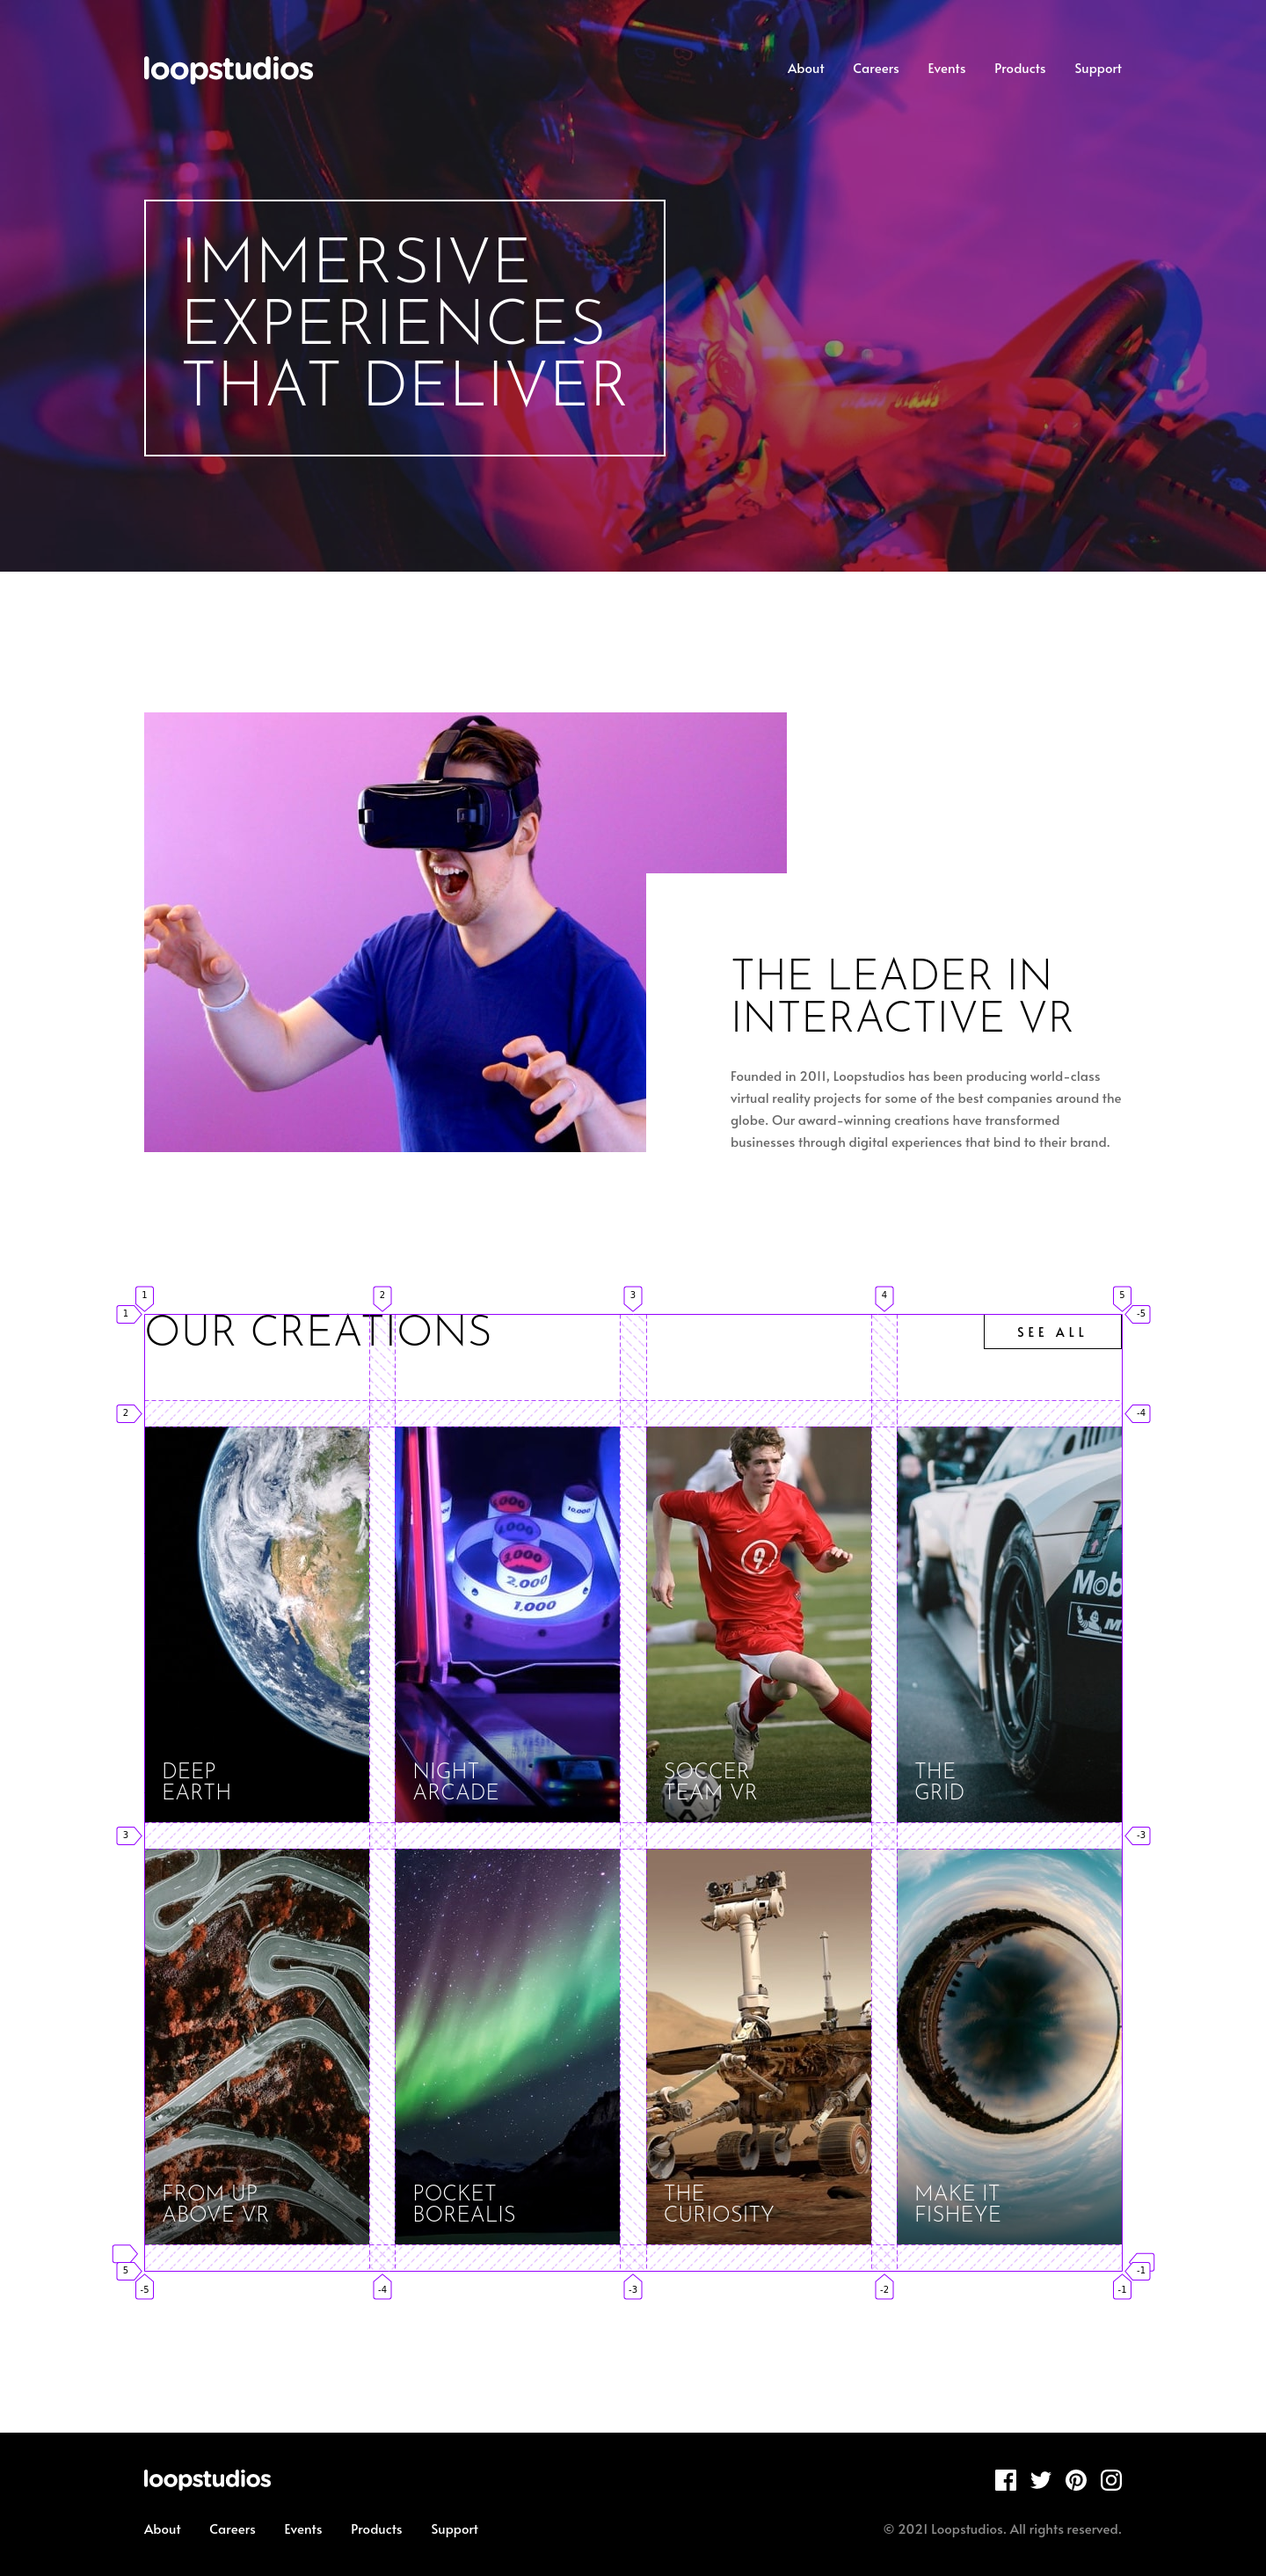
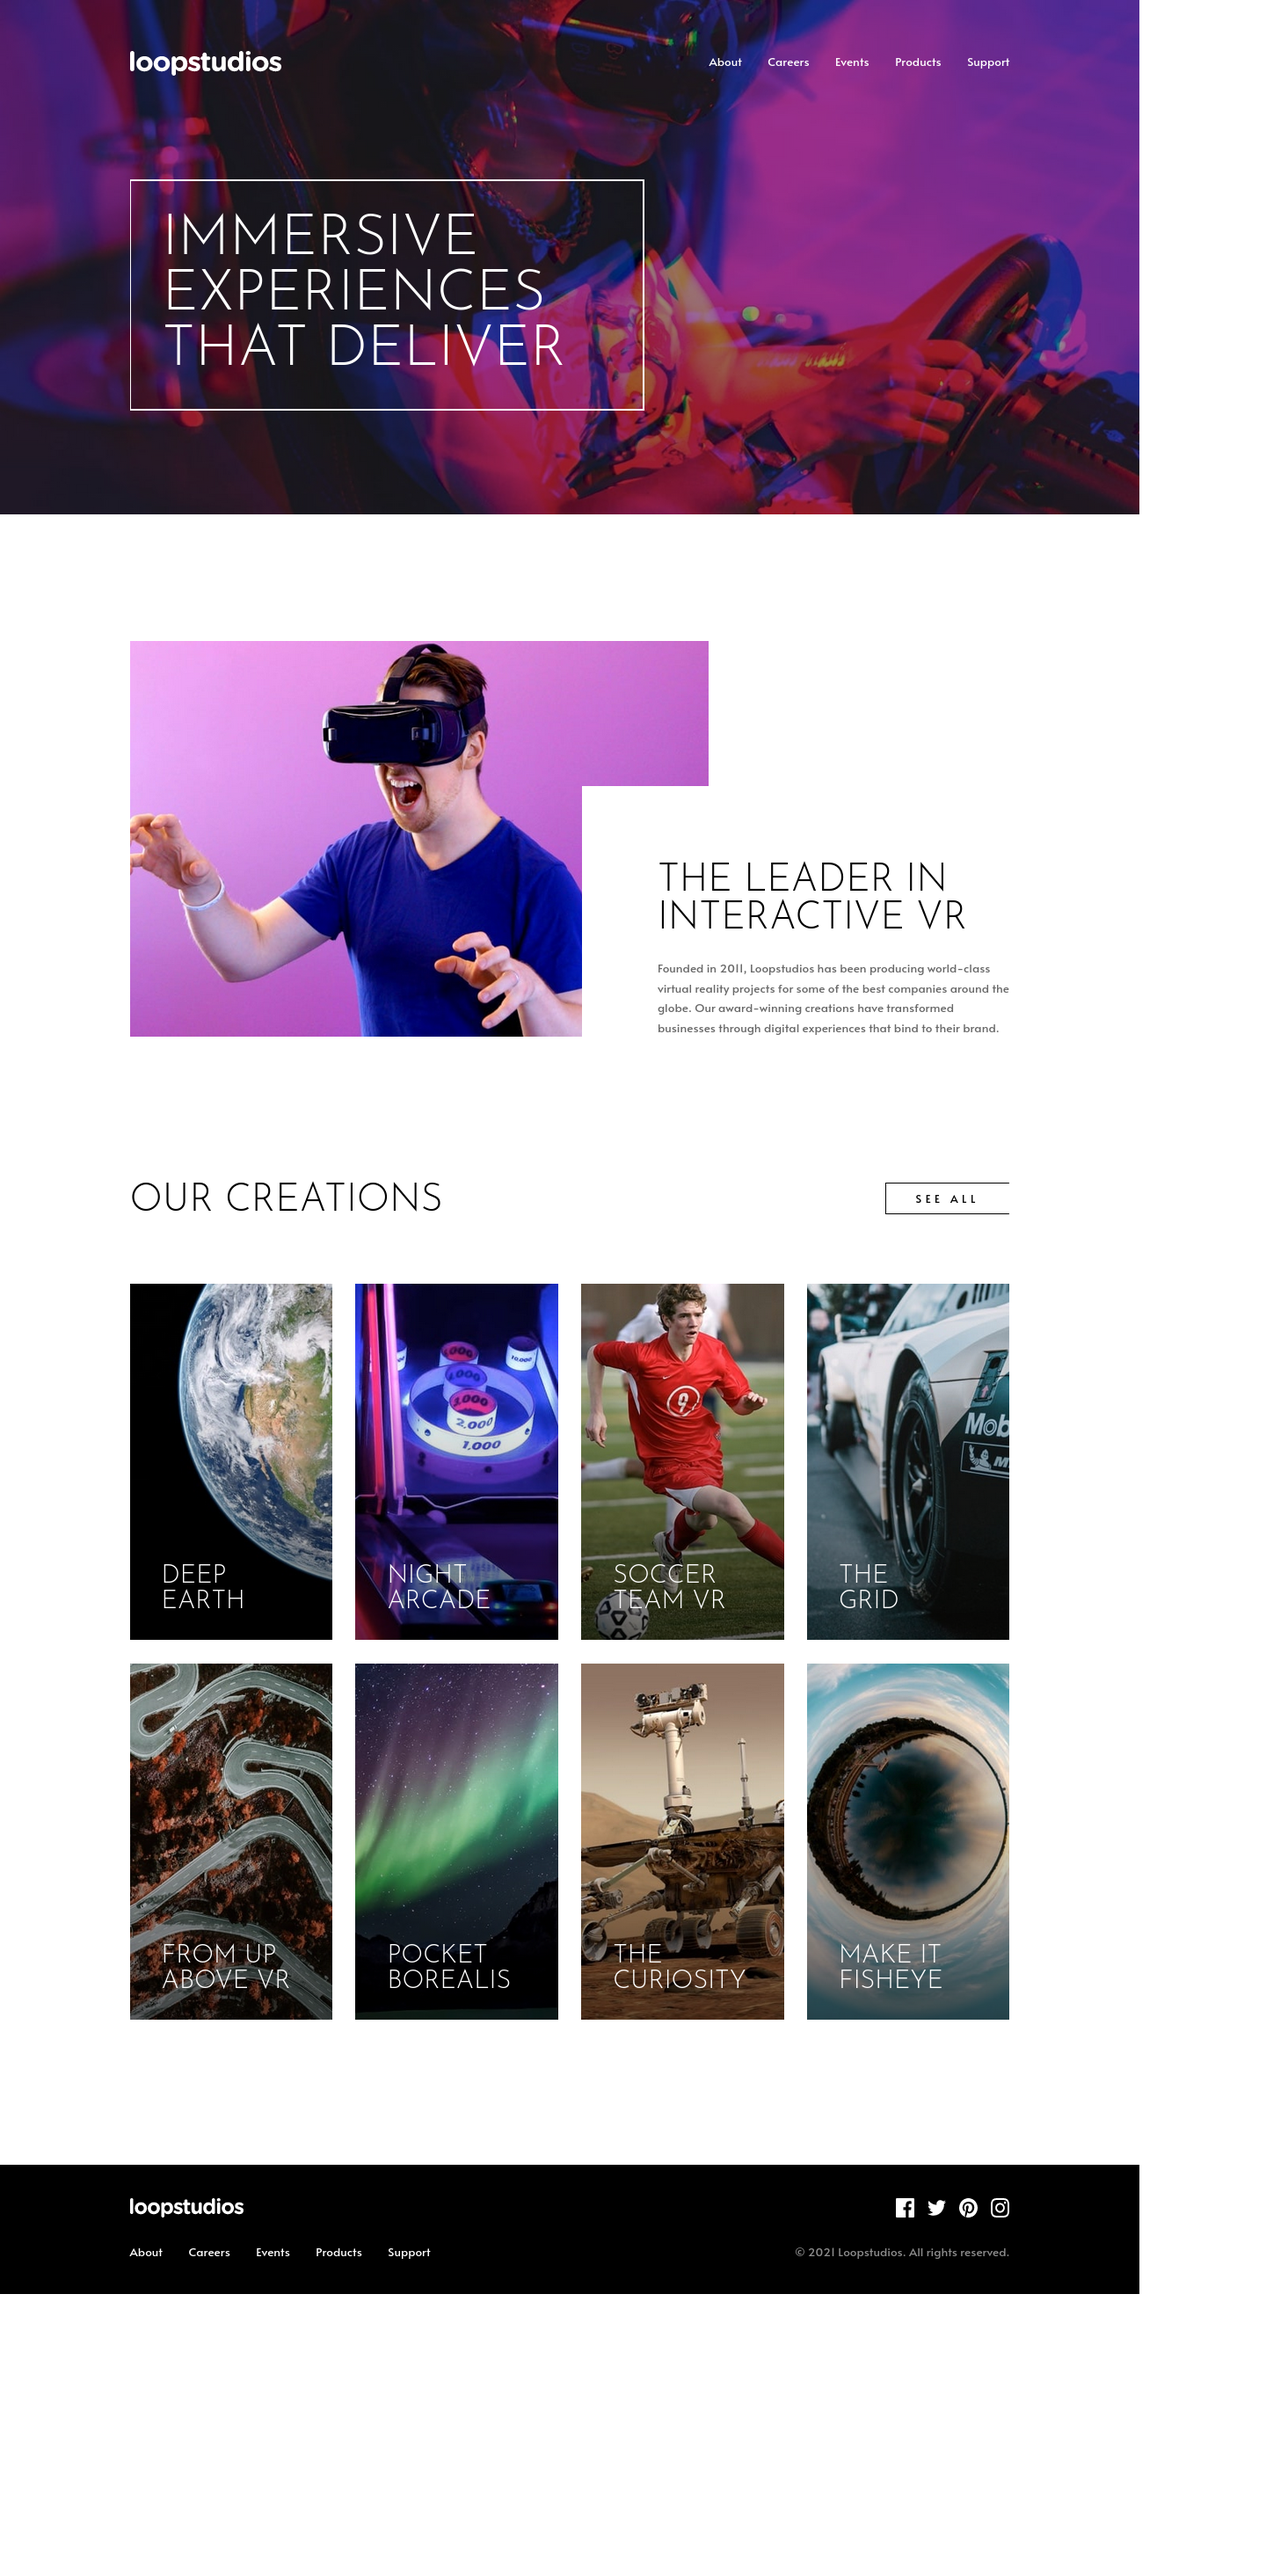
more shading of tiles

diff --git a/style.css b/style.css
@@ -171,7 +171,8 @@ main {
     diverges in desktop view, while on mobile is the same
 */
 .spacing-1,
-.spacing-2 {
+.spacing-2,
+.spacing-3 {
   height: 96px;
 }
 
@@ -248,9 +249,8 @@ h2 {
   background: linear-gradient(
     to right,
     rgba(0, 0, 0, 0.6),
-    rgba(0, 0, 0, 0),
-    240px,
-    rgba(0, 0, 0, 0)
+    rgba(0, 0, 0, 0) 240px,
+    rgba(0, 0, 0, 0) 100%
   );
 }
 
@@ -378,7 +378,11 @@ footer ul {
     font-size: 72px;
     line-height: 70px;
     margin: 67px var(--desktop-screen-margin);
+    width: 650px;
     padding: 39px 39px;
+  }
+  h1 br {
+    line-height: 0;
   }
 
   /* CSS for the main section - the one with the white background */
@@ -391,6 +395,9 @@ footer ul {
   }
   .spacing-2 {
     height: 184px;
+  }
+  .spacing-3 {
+    height: 154px;
   }
 
   .intro-article {
@@ -436,11 +443,18 @@ footer ul {
   .tile-gradient {
     background: linear-gradient(
       to bottom,
-      rgba(0, 0, 0, 0),
-      130px,
-      rgba(0, 0, 0, 0),
+      rgba(0, 0, 0, 0) 130px,
+      rgba(0, 0, 0, 0) 130px,
       rgba(0, 0, 0, 0.6)
     );
+  }
+
+  h3 {
+    font-size: 32px;
+    line-height: 32px;
+    bottom: 32px;
+    left: 40px;
+    text-align: left;
   }
 
   .tiles-grid {

diff --git a/index.html b/index.html
@@ -189,7 +189,7 @@
           </button>
         </div>
       </div>
-      <div class="spacing-2"></div>
+      <div class="spacing-3"></div>
     </main>
     <footer id="footer" class="font-alata">
       <img
